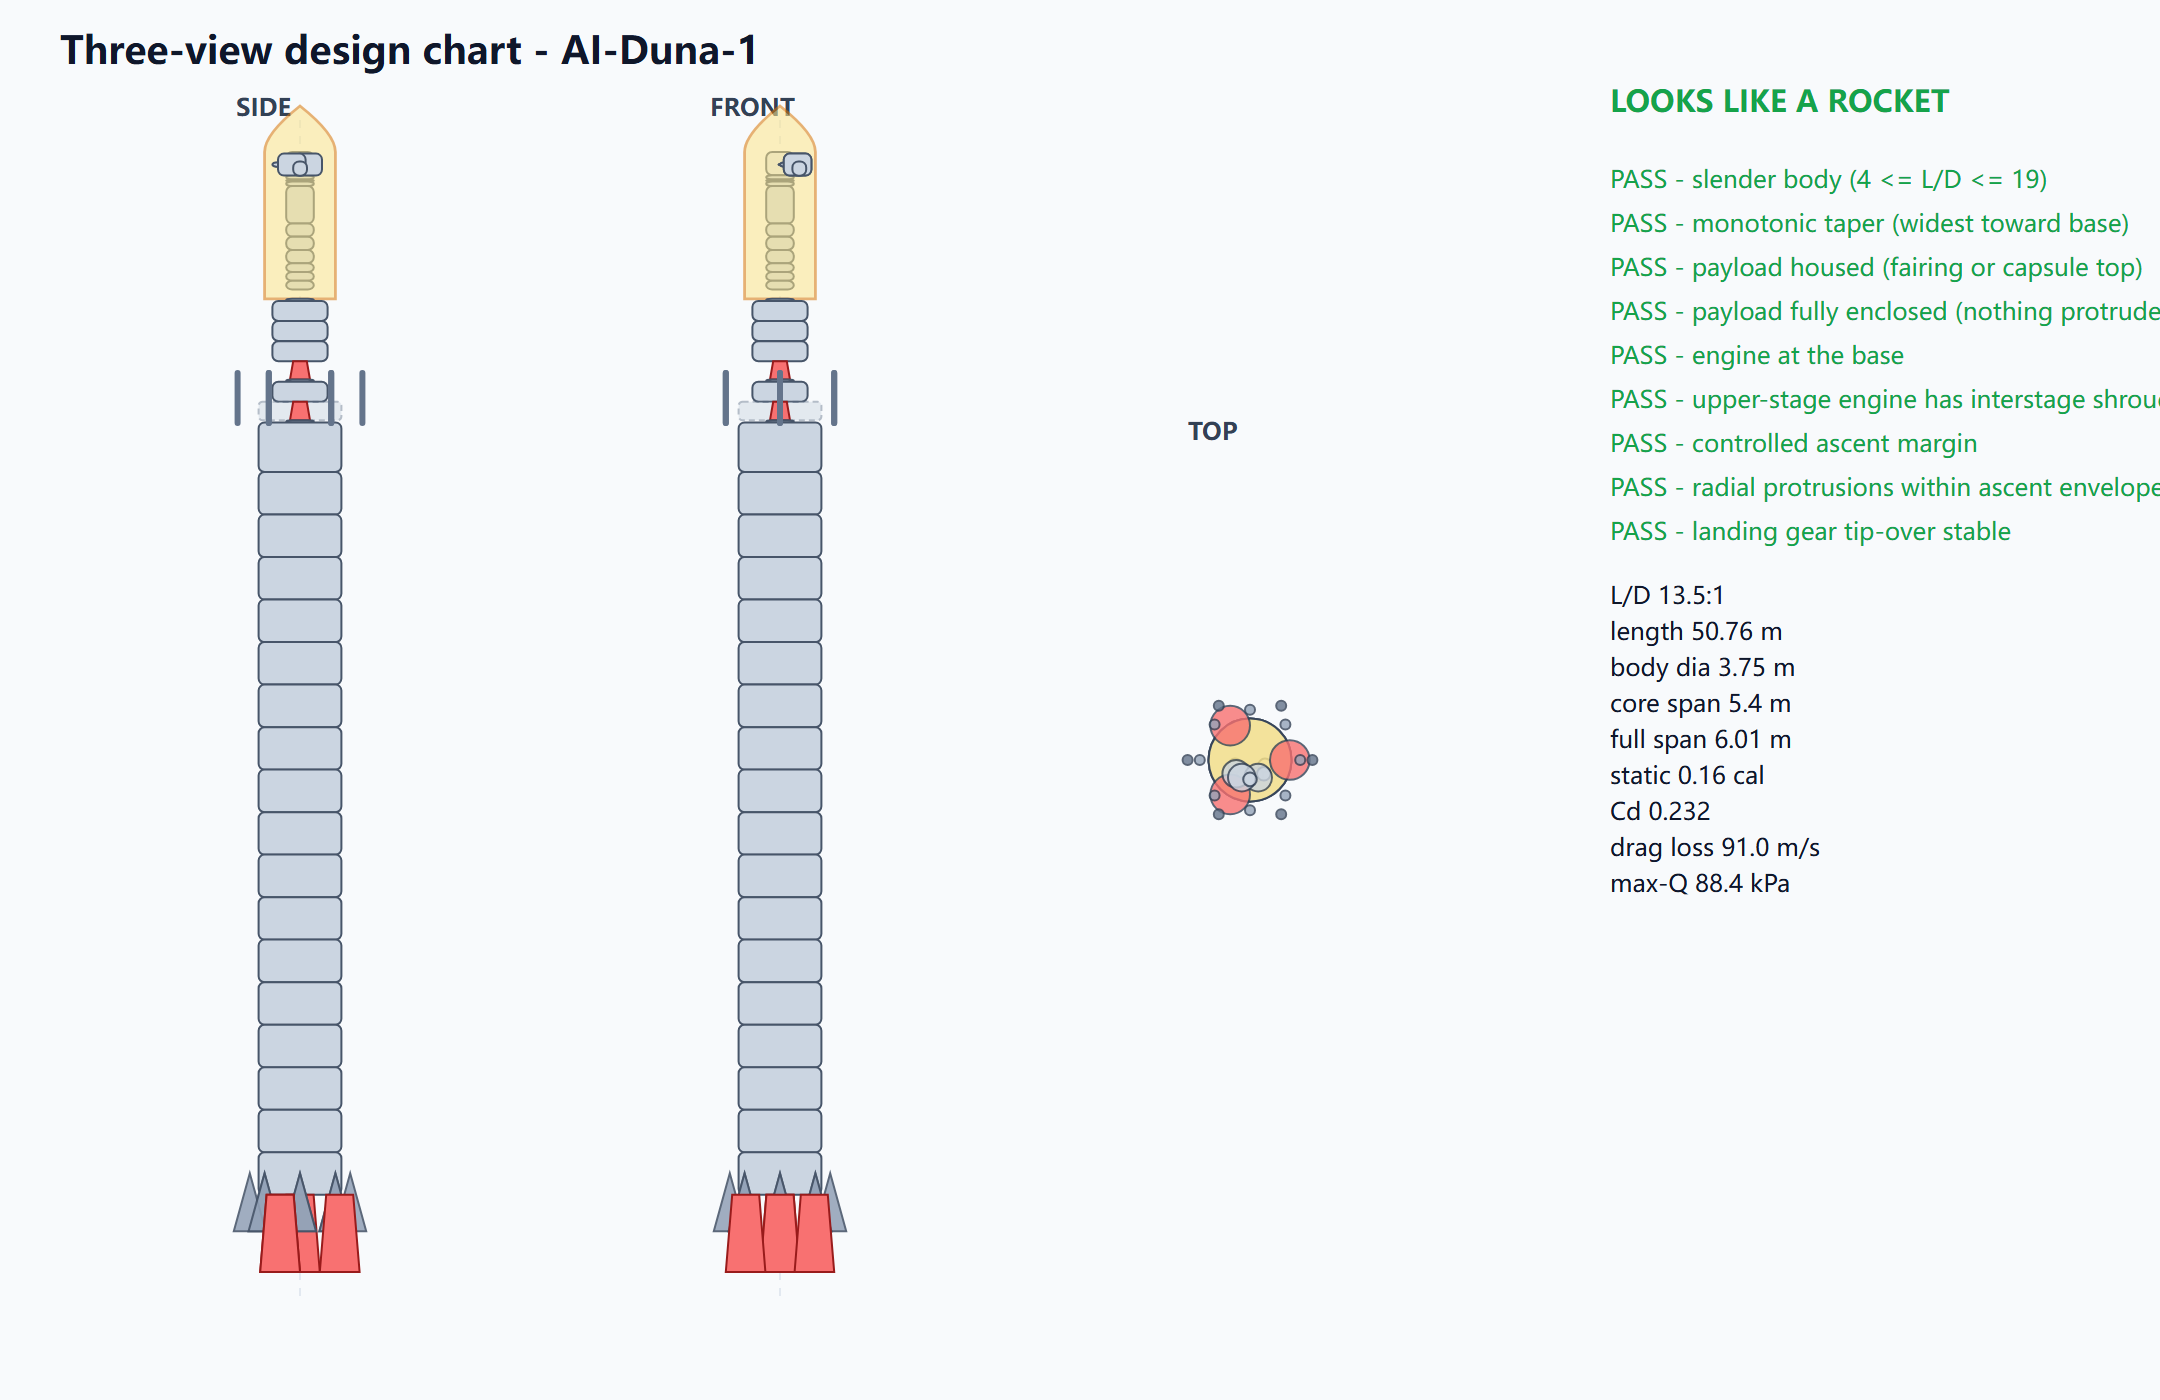
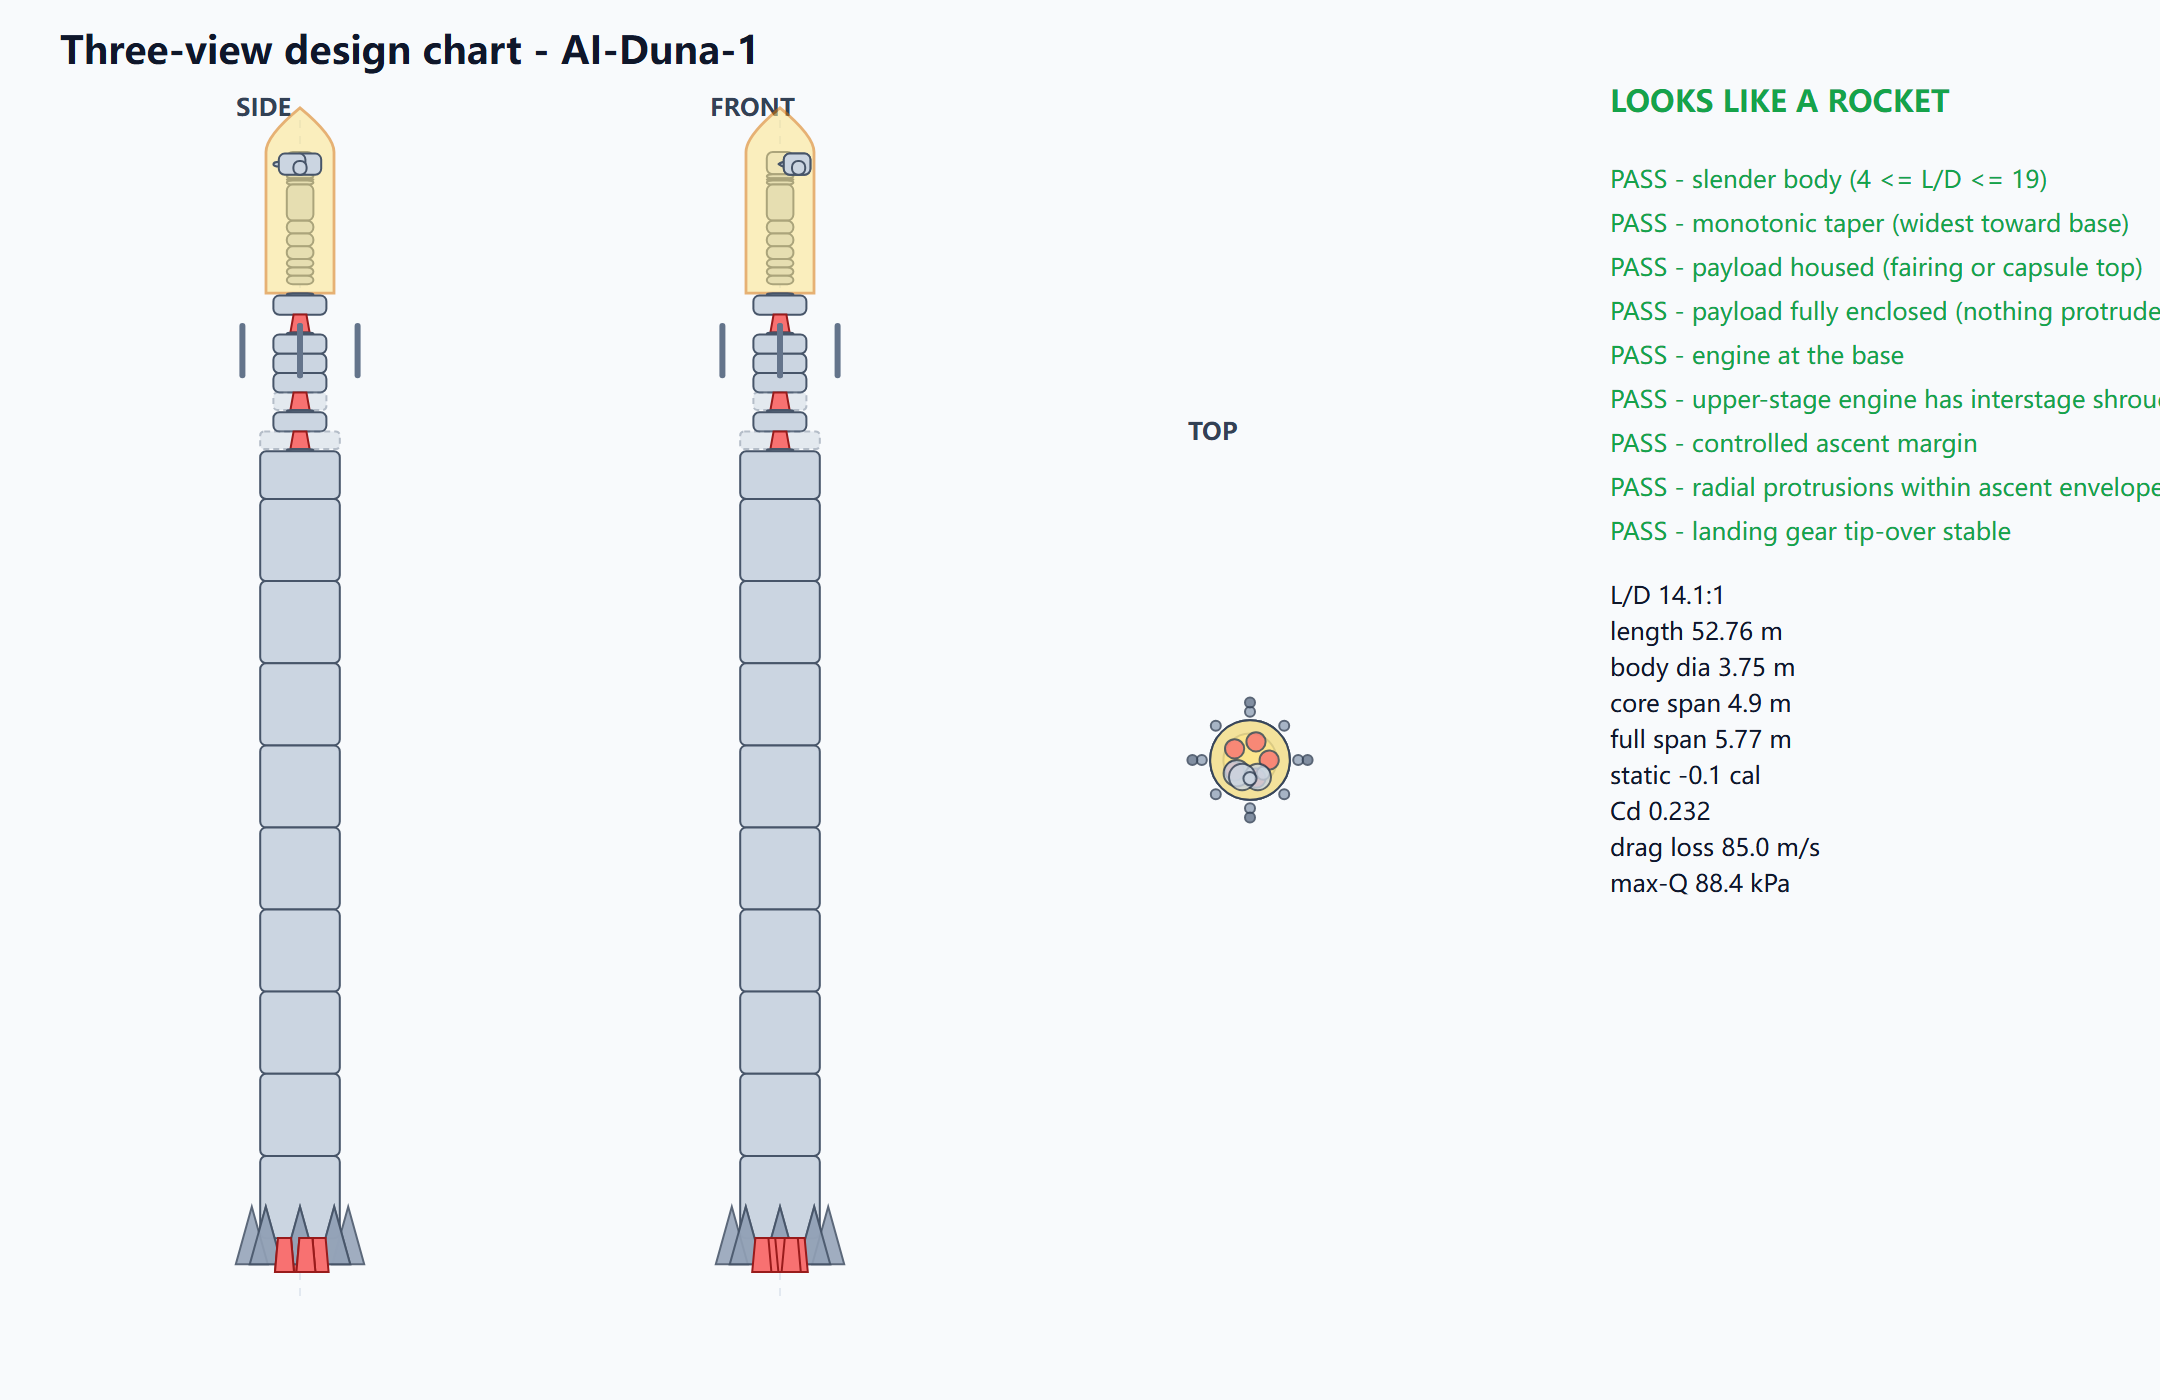
Keep the split transfer stage attached through ascent (live fix)
First split flight stranded in LKO: the launch's explicit ascent-staging (_inter_stage_decouplers) classes
the transfer/lander INTERFACE decoupler as an inter-stage separator (an engine — the lander's — stays on
the root side), so the ascent loop fired it and dropped the full transfer stage before TMI; the lander then
tried to eject alone and never escaped Kerbin. The earlier _separate_attached_boosters fuel-guard only
covered the end-of-ascent cleanup, not the ascent staging itself.

Fix: _inter_stage_decouplers takes exclude_split_interface; launch_to_lko passes it when transfer_dv>0 AND
lander_dv>0. On a split craft the lander is the topmost propulsive stage, so the SHALLOWEST engine-keeping
decoupler is the transfer/lander interface (drops the deep-space transfer stage that fires AFTER LKO) —
exclude it so the ascent stops at the intact transfer stage; jettison_transfer_stage fires it later in Duna
orbit. Single-stage (mission_dv) + relay paths unchanged. 351 tests pass.

diff --git a/tools/deploy_relay.py b/tools/deploy_relay.py
@@ -85,13 +85,19 @@ def _root_side_keeps_engine(vessel, dec) -> bool:
     return False
 
 
-def _inter_stage_decouplers(vessel) -> list:
+def _inter_stage_decouplers(vessel, exclude_split_interface: bool = False) -> list:
     """The decouplers ascent staging may fire, DEEPEST-first (the booster decoupler before any upper one),
     EXCLUDING any decoupler that would strand the engineless payload. An inter-stage decoupler drops a SPENT
     stage while the active (root/pod) side KEEPS an engine (``_root_side_keeps_engine``); a PAYLOAD decoupler
     leaves the payload with no propulsion and must never fire during ascent. The crewed vehicle has TWO such
     payload decouplers (heat-shield boundary + upper boundary), which the old shallowest-only heuristic
-    mis-fired — dropping the whole upper stage. Returns [] when nothing is safe to fire."""
+    mis-fired — dropping the whole upper stage. Returns [] when nothing is safe to fire.
+
+    ``exclude_split_interface`` (a SPLIT transfer/lander craft): the lander is the topmost propulsive stage,
+    so the SHALLOWEST engine-keeping decoupler is the transfer/lander INTERFACE — it drops the DROPPABLE
+    TRANSFER stage, which fires AFTER LKO (trans-Duna injection), NOT during ascent. Firing it on the ascent
+    strands the mission in LKO with only the lander. Exclude it so the ascent stops at the (intact) transfer
+    stage; jettison_transfer_stage fires it later in Duna orbit."""
     try:
         decs = list(vessel.parts.decouplers)
     except Exception:
@@ -105,6 +111,10 @@ def _inter_stage_decouplers(vessel) -> list:
         payload = min(decs, key=lambda dd: _depth_from_root(dd.part))
         inter = [dd for dd in decs if dd is not payload]
     inter.sort(key=lambda dd: -_depth_from_root(dd.part))           # deepest (lowest booster) fires first
+    if exclude_split_interface and len(inter) >= 2:
+        # the SHALLOWEST engine-keeping decoupler (last after the deepest-first sort) is the transfer/lander
+        # interface on a split craft — keep the transfer stage attached through ascent.
+        inter = inter[:-1]
     return inter
 
 
@@ -464,9 +474,11 @@ def launch_to_lko(sc, cfg, runner, bridge, name: str, target_alt_km: float,
     # MechJeb autostage (which intermittently skips the booster decoupler on this fin geometry). That
     # guarantees a spent stage is physically separated BEFORE the next engine lights — the fix for "the
     # next engine just heats the attached tank with no thrust gain" — and the comsat is never jettisoned.
-    inter_decs = _inter_stage_decouplers(kv)
+    _is_split = (float(transfer_dv) > 0.0 and float(lander_dv) > 0.0)
+    inter_decs = _inter_stage_decouplers(kv, exclude_split_interface=_is_split)
     log(f"  ascent separators: {len(inter_decs)} inter-stage decoupler(s) to fire explicitly "
-        f"(payload decoupler protected — never fired during ascent)")
+        f"(payload decoupler protected — never fired during ascent"
+        + ("; SPLIT: transfer/lander interface kept attached for TMI" if _is_split else "") + ")")
     # FAIL-FAST baselines (captured once, on the fully-stacked vehicle at liftoff): the part count that
     # SHOULD survive to orbit (post-staging = full stack minus the booster stages we will drop) and the
     # bare PAYLOAD count (what's left if it breaks up). post_staging is the full stack minus one part per